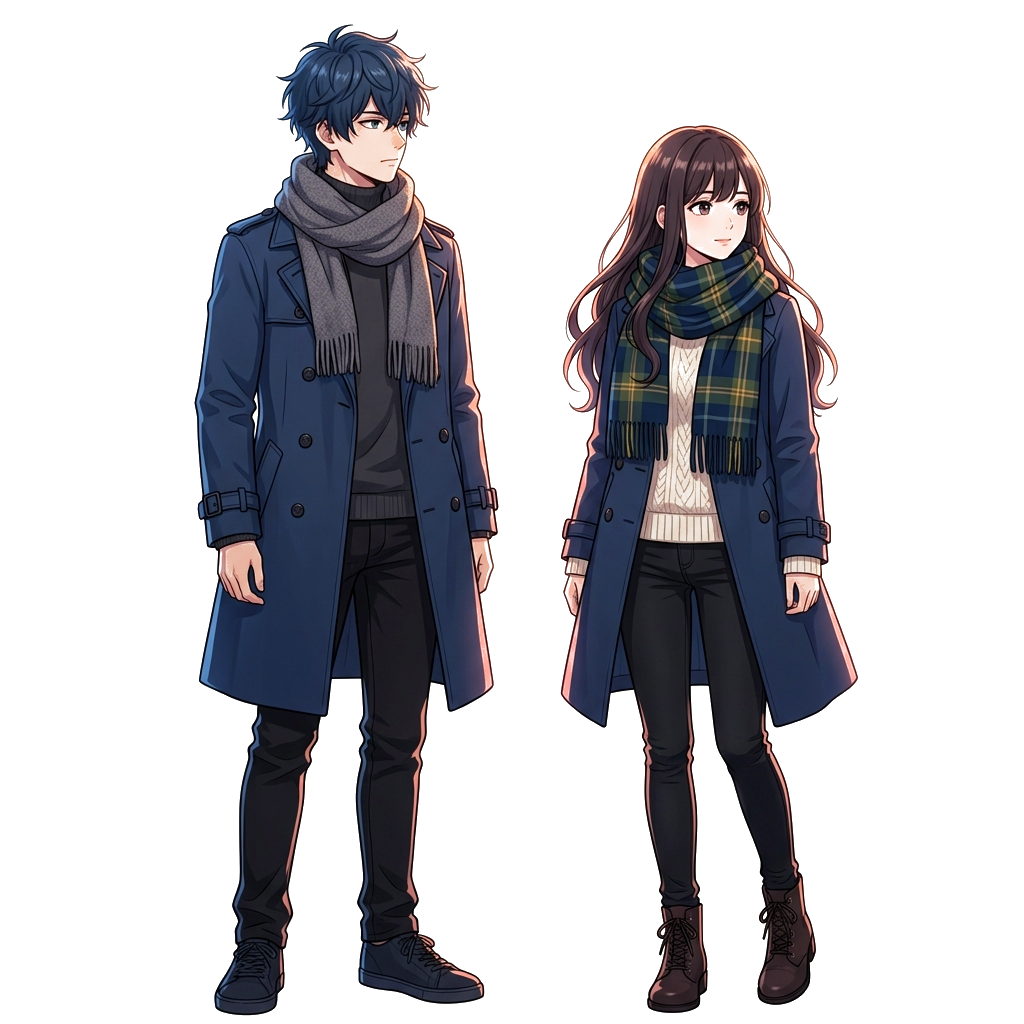
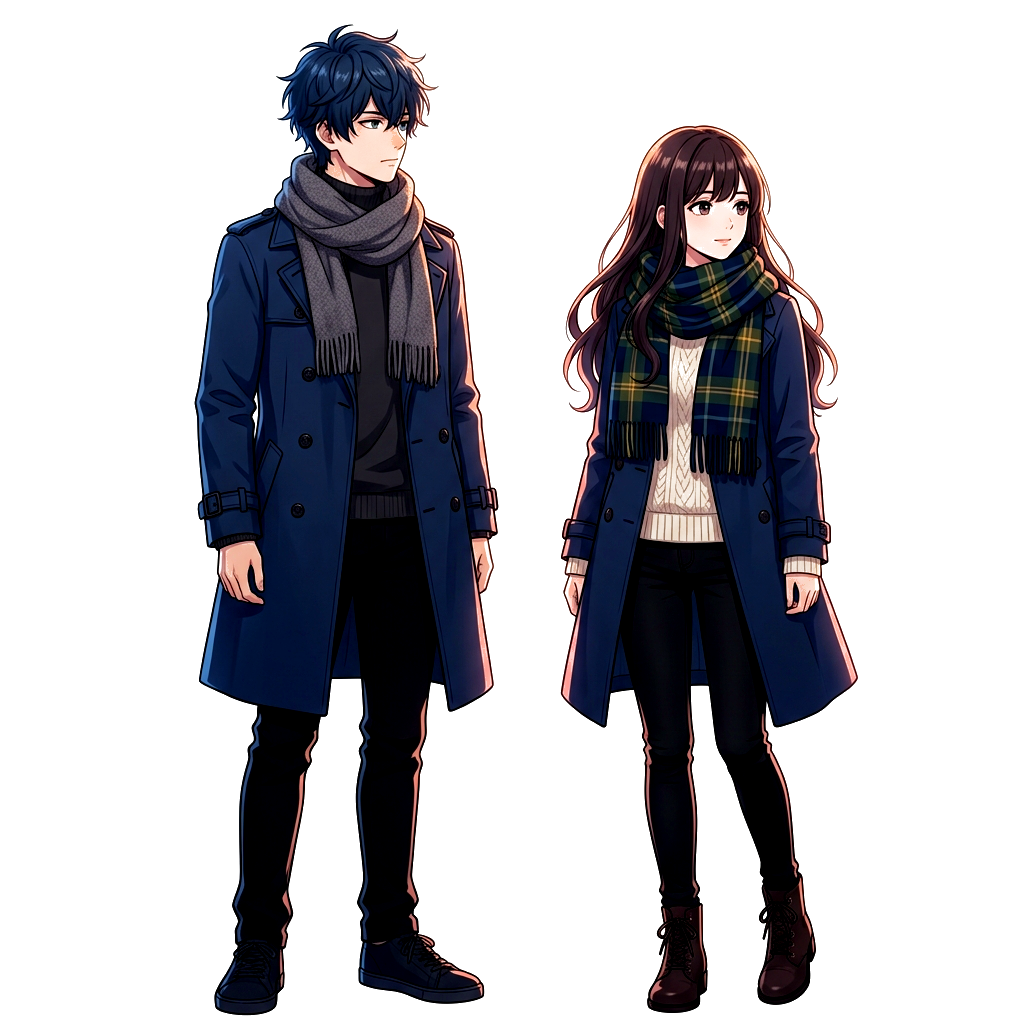
Update Spring couple cutout with clean background removal, +20% contrast boost across all couple images, and index cache busting update

Changed region(s): [[0.1875, 0.0312, 0.5, 1.0], [0.5312, 0.125, 0.8438, 1.0]]

diff --git a/index.html b/index.html
@@ -1180,7 +1180,7 @@
 
         // --- DIORAMA 6 (Sentence 6: Z = -180.7, 52.00s) - CLEAN COUPLE, GROUNDED UPRIGHT WHITISH-PINK TREES AT LYRICS Z=-178.5 & CLOSE MOUNTAIN ---
         // Single Main Cherry Blossom Couple (Clean tight cutout of ONLY the couple, no background trees)
-        const c6 = createCharacterOnRoad(6, 'assets/couple_6_v3.png?v=101', -180.7, 0.0);
+        const c6 = createCharacterOnRoad(6, 'assets/couple_6_v3.png?v=105', -180.7, 0.0);
         coupleMeshes.push(c6);
 
         // Whitish-pink trees standing UPRIGHT (rotation.z = 0) grounded at LYRICS text position (Z = -178.5, NO floating mid-air trees!)
